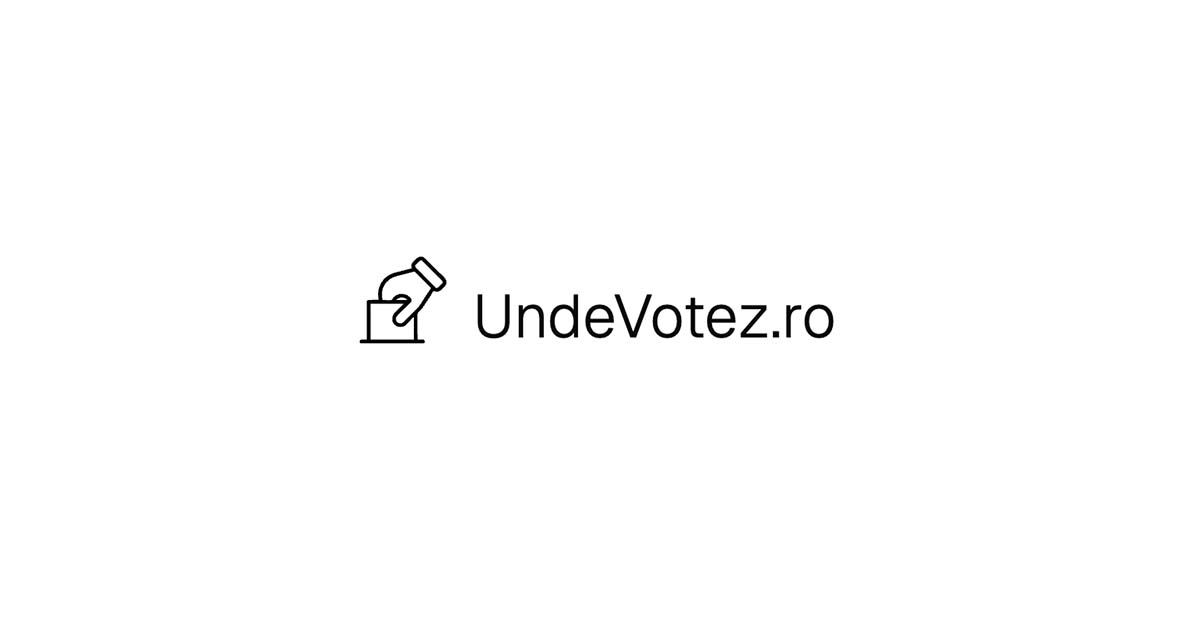
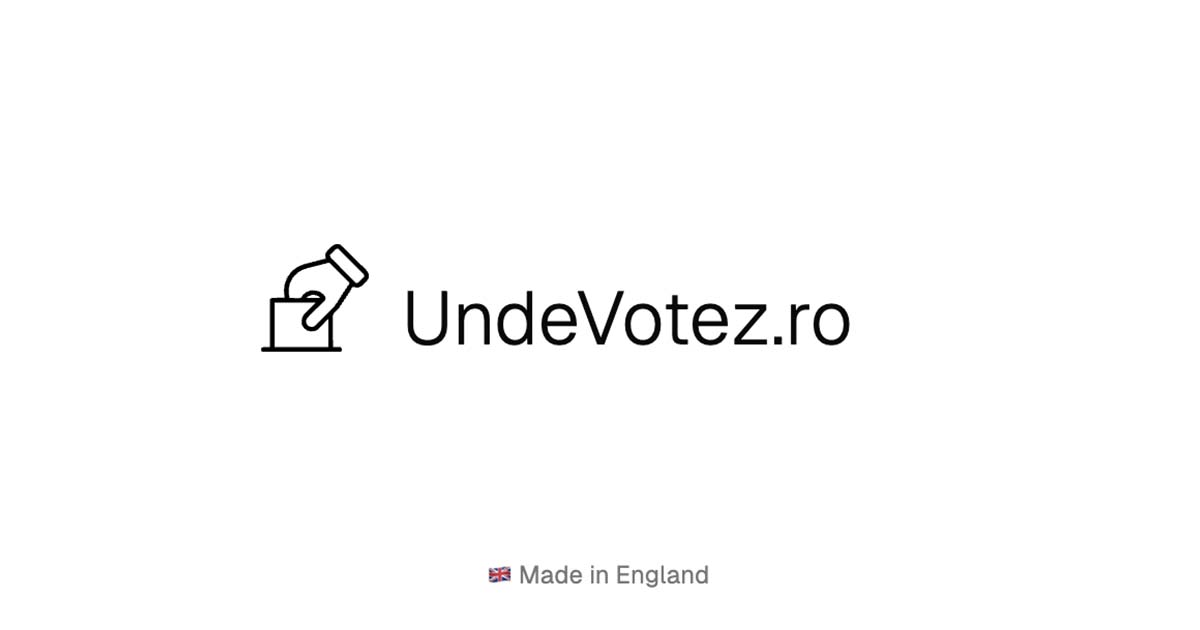
fixes

Changed region(s): [[0.2158, 0.3921, 0.7092, 0.573], [0.4008, 0.9048, 0.5858, 0.9349]]

diff --git a/app/page.tsx b/app/page.tsx
@@ -46,11 +46,12 @@ export default function Home() {
     }, [searchTerm, pollingStations]);
 
     return (
-        <div className="w-full max-w-[650px]">
-            <h2 className="text-4xl text-center font-light mb-14 flex justify-center items-end gap-4">
+        <div className="w-full max-w-[650px] p-6">
+            <h2 className="text-4xl text-center font-light mb-14 flex flex-col md:flex-row justify-center items-center md:items-end gap-4">
                 <Image src={logo} alt="Logo" className="h-14 w-auto pb-1 dark:invert" />
                 <span>Secții de votare în diaspora</span>
             </h2>
+
             <div className="mb-6 rounded-lg border border-gray-300 w-full py-4 px-6 bg-stone-50 dark:bg-black text-black">
                 <p className="text-gray-600 dark:text-gray-300 text-sm">
                     <strong>Ajutor:</strong>

diff --git a/app/layout.tsx b/app/layout.tsx
@@ -59,8 +59,8 @@ export default function RootLayout({ children }: { children: React.ReactNode }) 
                             </nav>
                             {children}
 
-                            <footer className="w-full mt-auto flex items-center justify-center border-t mx-auto text-center text-xs gap-8 py-16">
-                                <p>Built in England</p>
+                            <footer className="w-full mt-auto flex items-center justify-center border-t mx-auto text-center text-sm gap-4 py-16">
+                                <p>🇬🇧 Made in England</p>
                                 <ThemeSwitcher />
                             </footer>
                         </div>
